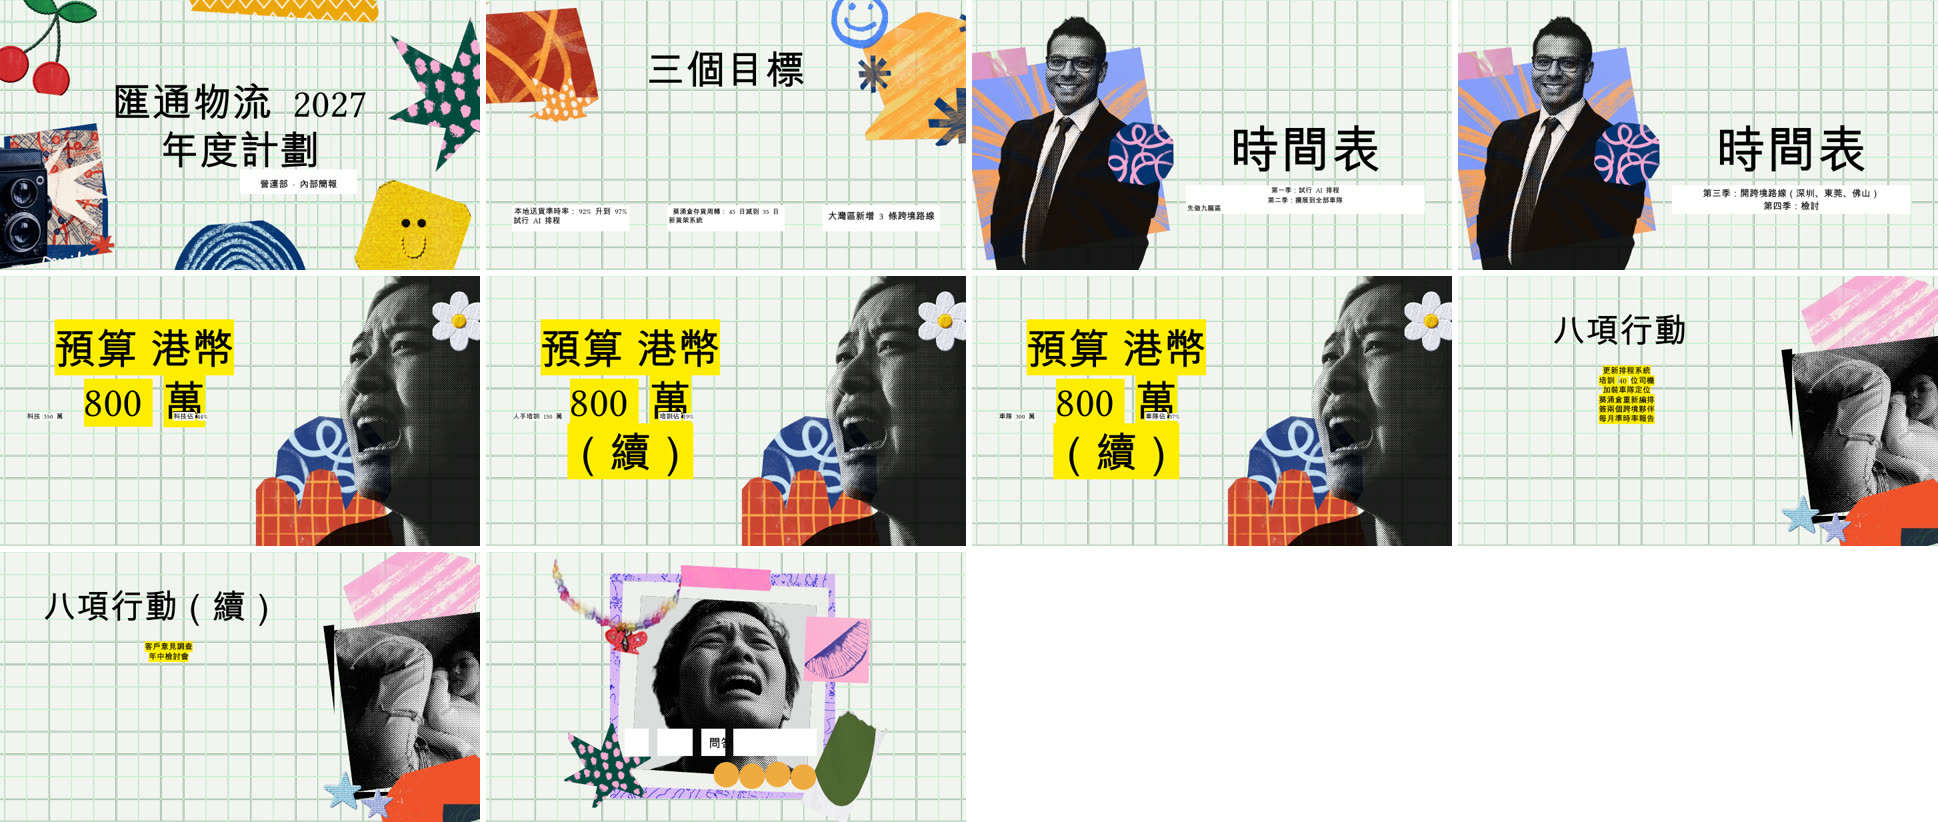
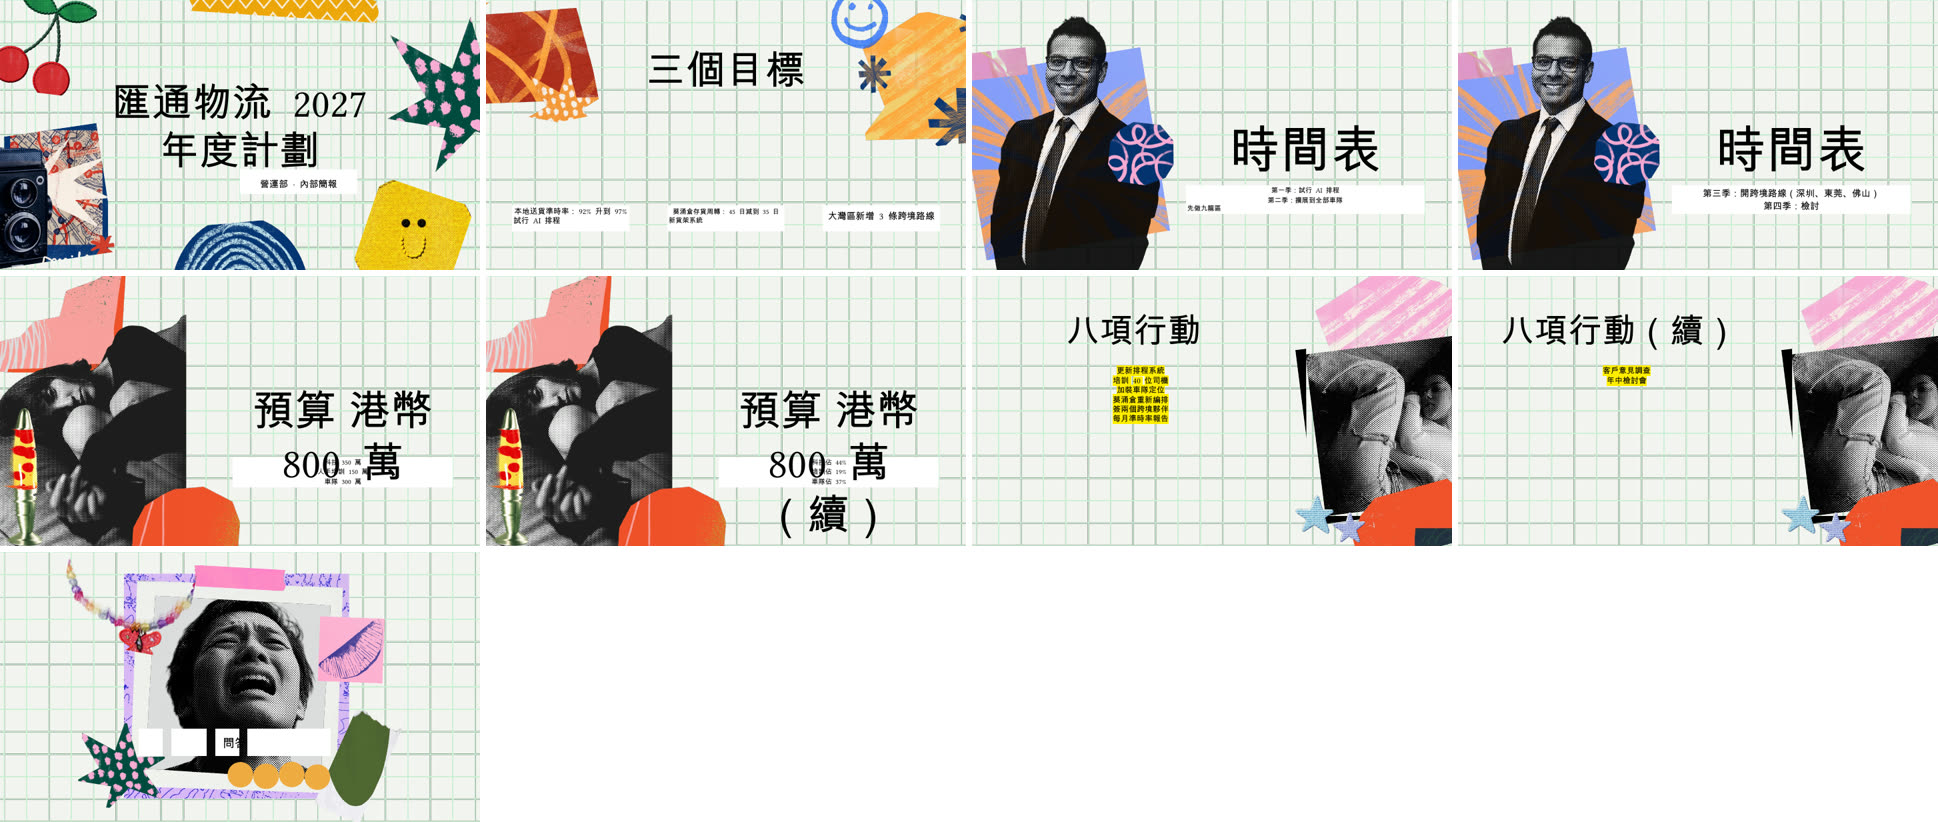
rev 8 QA round 3 S2: G0b 8 of 8, 預算 Marco 3 -> 2, business-conference 3 -> 1, before/after qa3b
Agent-Session: f08560dd-3924-4135-a8b8-85869ce27882

Changed region(s): [[0.0, 0.3345, 0.8978, 1.0], [0.805, 0.4562, 0.8669, 0.517]]

diff --git a/qa/g0b/G0B-RESULT.md b/qa/g0b/G0B-RESULT.md
@@ -99,3 +99,14 @@ Run on `2dd5c96`. The runner now also reports each template's title slide (`titl
 S1 makes a two-column slide use a readable two-column sample before any merge, even where that sample splits it: business-conference's 預算 takes 3 slides on s2 (round 2 merged it onto one slide), Marco's 3 on s3 (round 2: 2 merged on s4).
 
 Before and after on Marco's template: `qa/g0b/marco-before-after-qa3.jpg` (top: d1b3ca1; bottom: this run).
+
+## QA round 3 with S2 (two columns yield when they add slides)
+
+Run on `cb09123`. 8 of 8 clean (new overlaps 0, blank chips 0, C23 0 diffs on every deck); every title slide as in the round 3 run (seven covers, Marco's on s7); Marco's 時間表 2 slides, 八項行動 2, 問答 on s1 at 36 pt.
+
+| 預算 (two columns) | round 3 (S1) | with S2 |
+|---|---|---|
+| Marco's template | s3, 3 slides, warned (deck 10) | s4, 2 slides, columns merged, warned: the title runs onto the body (deck 9) |
+| business-conference-slides | s2, 3 slides, warned (deck 9) | s3, 1 slide, columns merged (deck 7) |
+
+The other six templates keep their 預算 picks (five two-column samples on one slide each, Viola's merge on s39). Before and after on Marco's template: `qa/g0b/marco-before-after-qa3b.jpg` (top: ad434fe; bottom: this run).
